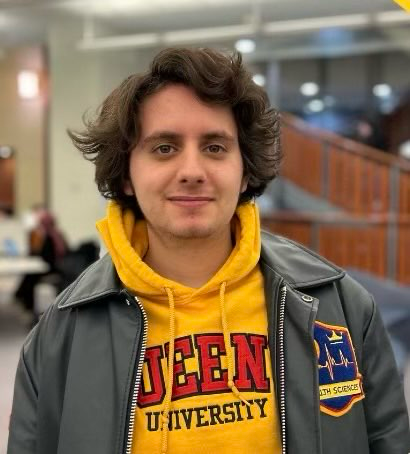
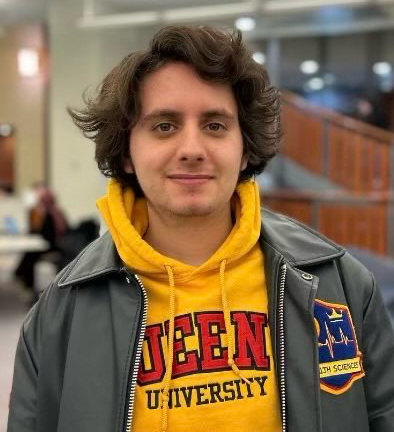
added tutors

diff --git a/pathfinders/src/pages/OurTeam.js b/pathfinders/src/pages/OurTeam.js
@@ -6,15 +6,20 @@ import '../css/OurTeam.css'
 const OurTeam = () => {
     return (
         <div className="ourteam">
-            <h1>Our Team</h1>
+            <h1>Meet Our Amazing Team!</h1>
 
             <div className='team-members'>
-                <Member name='Nathan Lai' filename='nathan-lai.png' tag="Queen's 3rd Year Health Sciences, MCAST, CASPER" link="https://linkedin.com/in/huymtruong"/>
-                <Member name='Grace Kim' filename='grace-kim.png' tag="Queen's 3rd Year Health Sciences, CASPER" link="https://linkedin.com/in/huymtruong"/>
-                <Member name='Julie Choi' filename='julie-choi.png' tag="Queen's 3rd Year Health Sciences, CASPER" link="https://linkedin.com/in/huymtruong"/>
-                <Member name='Jerron Zhang' filename='jerron-zhang.png' tag="Queen's 3rd Year Health Sciences, MCAT" link="https://linkedin.com/in/huymtruong"/>
-                <Member name='Ethan Ko' filename='ethan-ko.png' tag="McMaster 3rd Year Integrated Biomedical Engineering and Health Sciences, DAT, AA 20/30" link="https://linkedin.com/in/huymtruong"/>
-                <Member name='Andy Ganea' filename='andy-ganea.png' tag="Queen's 3rd Year Health Sciences, MCAT Prep" link="https://linkedin.com/in/huymtruong"/>
+                <Member name='Nathan Lai' filename='nathan-lai.jpg' tag="Queen's 3rd Year Health Sciences; MCAT: 517 (94th Percentile), CASPER: 4th Quartile" link="https://www.linkedin.com/in/nathan-lai-20b37a280/"/>
+                <Member name='Grace Kim' filename='grace-kim.jpg' tag="Queen's 3rd Year Health Sciences; CASPER: 4th Quartile" link="https://www.linkedin.com/in/grace-kim-357362264/"/>
+                <Member name='Julie Choi' filename='julie-choi.png' tag="Queen's 3rd Year Health Sciences; CASPER: 4th Quartile" link="https://www.linkedin.com/in/julie-choi-383846270/"/>
+                <Member name='Jerron Zhang' filename='jerron-zhang.png' tag="Queen's 3rd Year Health Sciences; MCAT: 521 (98th Percentile)" link="https://www.linkedin.com/in/jerron-zhang-bb830b245/"/>
+                <Member name='Ethan Ko' filename='ethan-ko.jpg' tag="McMaster 3rd Year Integrated Biomedical Engineering and Health Sciences (iBioMed); DAT" link="https://www.linkedin.com/in/ethan--ko/"/>
+                <Member name='Andy Ganea' filename='andy-ganea.png' tag="Queen's 3rd Year Health Sciences; MCAT: 521 (98th Percentile)" link="https://www.linkedin.com/in/andrewganea/"/>
+                <Member name='Wesley Kwan' filename='wesley-kwan.jpg' tag="Queen's 3rd Year Health Sciences; LSAT: 175 (99.5th Percentile)" link="https://www.linkedin.com/in/wesleykwan10/"/>
+                <Member name='Dylan Kwan' filename='dylan-kwan.jpg' tag="Queen's 3rd Year Health Sciences; MCAT" link="https://www.linkedin.com/in/dylankwann/"/>
+                <Member name='Sarah Karami' filename='sarah-karami.jpg' tag="Queen's 3rd Year Health Sciences; DAT: (99.7th Percentile)" link="https://www.linkedin.com/in/sarah-karami-4b3143220/"/>
+                <Member name='Felix Xu' filename='felix-xu.png' tag="Queen's 3rd Year Health Sciences; MCAT, CASPER: 4th Quartile" link="https://www.linkedin.com/in/felix-xu2004-/"/>
+                <Member name='Daniel Wang' filename='daniel-wang.jpg' tag="Queen's 3rd Year Health Sciences; CASPER: 4th Quartile" link="https://www.linkedin.com/in/danielhfwang/"/>
             </div>
             
             <div className='spacer'/>

diff --git a/pathfinders/src/pages/Home.js b/pathfinders/src/pages/Home.js
@@ -33,18 +33,38 @@ const Home = () => {
                     SUBJECTS WE TEACH:
                 </h1>
                 <div className='courses'>
-                    <div className='course'>
-                        LSAT
-                    </div>
-                    <div className='course'>
-                        CASPER
-                    </div>
-                    <div className='course'>
-                        MCAT
-                    </div>
-                    <div className='course'>
-                        DAT
-                    </div>
+                    <a
+                      className='course'
+                      href='https://www.lsac.org/lsat'
+                      target='_blank'
+                      rel='noopener noreferrer'
+                    >
+                      LSAT
+                    </a>
+                    <a
+                      className='course'
+                      href='https://takecasper.com'
+                      target='_blank'
+                      rel='noopener noreferrer'
+                    >
+                      CASPER
+                    </a>
+                    <a
+                      className='course'
+                      href='https://students-residents.aamc.org/applying-medical-school/taking-mcat-exam'
+                      target='_blank'
+                      rel='noopener noreferrer'
+                    >
+                      MCAT
+                    </a>
+                    <a
+                      className='course'
+                      href='https://www.ada.org/dat'
+                      target='_blank'
+                      rel='noopener noreferrer'
+                    >
+                      DAT
+                    </a>
                 </div>
             </div>
 

diff --git a/pathfinders/src/components/Member.js b/pathfinders/src/components/Member.js
@@ -16,13 +16,11 @@ const Member = (props) => {
 
     return (
         // <a className='member' href={props.link} target='_blank'>
-        <a className='member'>
+        <a className='member' href={props.link} target='_blank' rel='noopener noreferrer'>
             <img src={headshot}/>
             <h2>{props.name}</h2>
-            
-            {/* <a href={props.link} target='_blank'> */}
-            <a>
-                {/* <img src={linkedin}/> */}
+            <a href={props.link} target='_blank'>
+                <img src={linkedin}/>
                 <h3>{props.tag}</h3>
             </a>
         </a>

diff --git a/pathfinders/src/css/Home.css b/pathfinders/src/css/Home.css
@@ -110,8 +110,6 @@
     flex-direction: column;
     align-items: center;
 
-    min-height: 20vw;
-
     background-color: #f8f5ef;
 }
 .subjects h1 {
@@ -127,7 +125,7 @@
 }
 .courses {
     display: flex;
-    width: 30vw;
+    width: 100%;
     flex-direction: row;
     flex-wrap: wrap;
 
@@ -151,13 +149,14 @@
     color: #f8f5ef;
     background-color: #bc9f6c;
     transition: 200ms ease;
+    font-size: 2.5vw;
 }
-/* .course:hover {
+ .course:hover {
     border-color: #fffcf7;
     color: #bc9f6c;
     background-color: #fffcf7;
     transition: 200ms ease;
-} */
+} 
 
 .faqs {
     display: flex;

diff --git a/pathfinders/src/components/Navbar.js b/pathfinders/src/components/Navbar.js
@@ -59,7 +59,7 @@ const Navbar = () => {
                 <a href="/">
                     <img className='navlogo' src={Logo512Crop} alt="Logo"/>
                 </a>
-                <h1>PATHFINDERS PREP | </h1>
+                <h1>PATHFINDERS PREP  </h1>
                 <a className="navlink" href="/home">HOME</a>
                 <a className="navlink" href="/ourteam">OUR TEAM</a>
                 {/* <a className="navlink" href="/testimonials">SUCCESS STORIES</a> */}

diff --git a/pathfinders/src/css/Navbar.css b/pathfinders/src/css/Navbar.css
@@ -15,7 +15,7 @@
     user-select: none;
 }
 .navbar h1 {
-    font-size: 2vw;
+    font-size: 3vw;
     font-weight: 600;
     color: #2c2c2c;
 }
@@ -24,10 +24,12 @@
     width: 5vw;
 }
 .navlink {
+    flex: 1;
+    text-align: center;
     text-decoration: none;
     
     font-family: Forum;
-    font-size: 2vw;
+    font-size: 2.25vw;
     font-weight: 500;
 
     color: #2c2c2c;

diff --git a/pathfinders/src/css/Member.css b/pathfinders/src/css/Member.css
@@ -22,7 +22,7 @@
 }
 .member img {
     border-radius: 10px;
-    height: 16vw;
+    height: 18vw;
     object-fit: cover;
 }
 .member h2 {

diff --git a/pathfinders/src/css/OurTeam.css b/pathfinders/src/css/OurTeam.css
@@ -24,7 +24,7 @@
     align-items: center;
 
 
-    gap:4vw;
+    gap:3vw;
 }
 @media (max-width: 800px) {
     .ourteam h1 {
